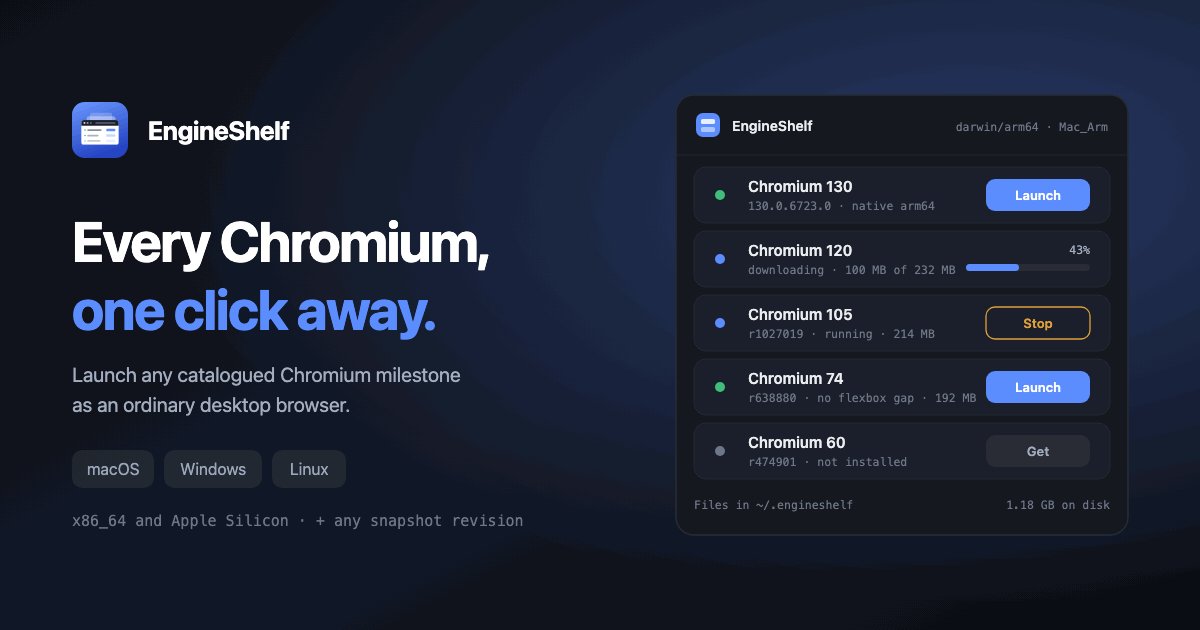
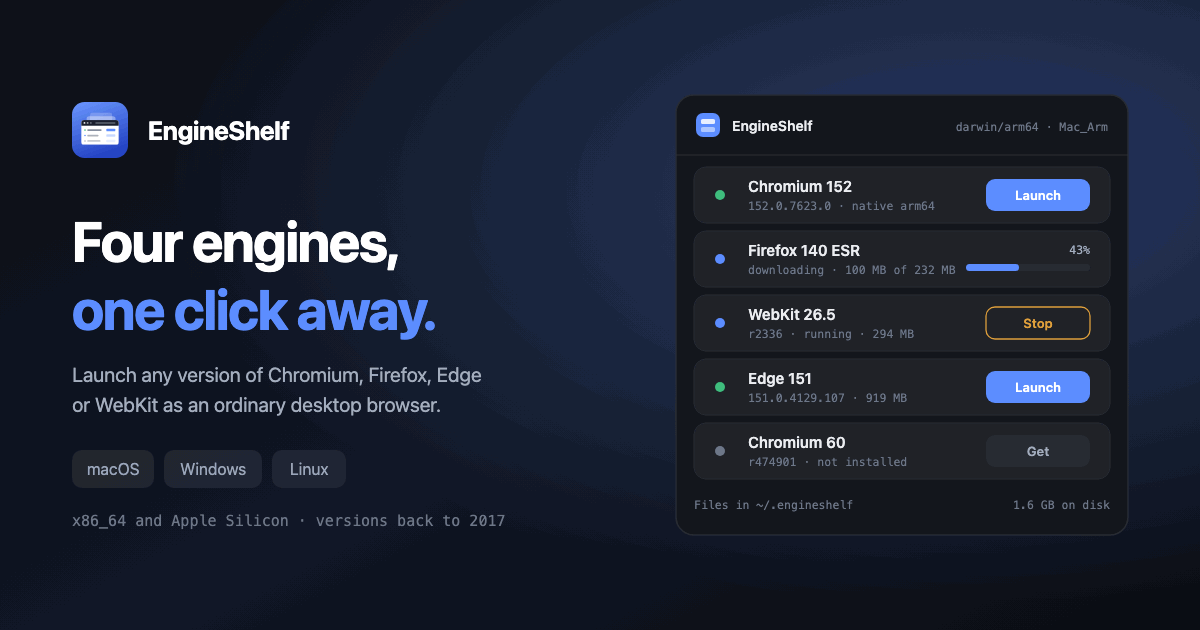
fix: update gui

diff --git a/docs/index.html b/docs/index.html
@@ -3,10 +3,10 @@
   <head>
     <meta charset="utf-8" />
     <meta name="viewport" content="width=device-width, initial-scale=1" />
-    <title>EngineShelf — run old Chromium versions, 60 and up</title>
+    <title>EngineShelf — run old versions of Chromium, Firefox, Edge and WebKit</title>
     <meta
       name="description"
-      content="Launch any Chromium milestone from 60 onwards as a real desktop browser — DevTools, tabs, profiles. Free and self-contained for macOS, Windows and Linux."
+      content="Launch any version of Chromium, Firefox, Edge or WebKit as a real desktop browser — DevTools, tabs, profiles. Free and self-contained for macOS, Windows and Linux."
     />
     <meta
       name="robots"
@@ -36,11 +36,11 @@
     <meta property="og:locale" content="en_US" />
     <meta
       property="og:title"
-      content="EngineShelf — run old Chromium versions, 60 and up"
+      content="EngineShelf — run old versions of Chromium, Firefox, Edge and WebKit"
     />
     <meta
       property="og:description"
-      content="Launch any Chromium milestone from 60 onwards as a real desktop browser — DevTools, tabs, profiles. Free and self-contained for macOS, Windows and Linux."
+      content="Launch any version of Chromium, Firefox, Edge or WebKit as a real desktop browser — DevTools, tabs, profiles. Free and self-contained for macOS, Windows and Linux."
     />
     <meta property="og:url" content="https://1m93.github.io/EngineShelf/" />
     <meta
@@ -52,17 +52,17 @@
     <meta property="og:image:height" content="630" />
     <meta
       property="og:image:alt"
-      content="EngineShelf — a shelf of real browsers, every Chromium, one click away. Chromium 60 and up, on macOS, Windows and Linux."
+      content="EngineShelf — a shelf of real browsers: four engines, every version, one click away. On macOS, Windows and Linux."
     />
 
     <meta name="twitter:card" content="summary_large_image" />
     <meta
       name="twitter:title"
-      content="EngineShelf — run old Chromium versions, 60 and up"
+      content="EngineShelf — run old versions of Chromium, Firefox, Edge and WebKit"
     />
     <meta
       name="twitter:description"
-      content="Launch any Chromium milestone from 60 onwards as a real desktop browser — DevTools, tabs, profiles. Free and self-contained for macOS, Windows and Linux."
+      content="Launch any version of Chromium, Firefox, Edge or WebKit as a real desktop browser — DevTools, tabs, profiles. Free and self-contained for macOS, Windows and Linux."
     />
     <meta
       name="twitter:image"
@@ -70,7 +70,7 @@
     />
     <meta
       name="twitter:image:alt"
-      content="EngineShelf — Chromium 60 and up on macOS, Windows and Linux."
+      content="EngineShelf — Chromium, Firefox, Edge and WebKit on macOS, Windows and Linux."
     />
 
     <meta
@@ -1062,7 +1062,7 @@
             "@id": "https://1m93.github.io/EngineShelf/#app",
             "name": "EngineShelf",
             "url": "https://1m93.github.io/EngineShelf/",
-            "description": "A version manager for Chromium. Downloads and launches any catalogued Chromium milestone from 60 (2017) onwards as an ordinary desktop browser, with tabs, bookmarks, DevTools and a persistent profile per version — for testing sites against old engines, legacy System WebViews and browserslist floors.",
+            "description": "A version manager for browser engines. Downloads and launches old versions of Chromium, Firefox, Edge and WebKit as ordinary desktop browsers, with tabs, bookmarks, DevTools and a persistent profile per version — for testing sites against old engines, legacy System WebViews and browserslist floors.",
             "applicationCategory": "DeveloperApplication",
             "applicationSubCategory": "Cross-browser testing",
             "operatingSystem": "macOS 10.13+, Windows 10, Windows 11, Linux x86_64",
@@ -1103,7 +1103,7 @@
             "@id": "https://1m93.github.io/EngineShelf/#website",
             "url": "https://1m93.github.io/EngineShelf/",
             "name": "EngineShelf",
-            "description": "Launch any Chromium milestone from 60 onwards as a real desktop browser — DevTools, tabs, profiles. Free and self-contained for macOS, Windows and Linux.",
+            "description": "Launch any version of Chromium, Firefox, Edge or WebKit as a real desktop browser — DevTools, tabs, profiles. Free and self-contained for macOS, Windows and Linux.",
             "inLanguage": "en",
             "publisher": {
               "@type": "Person",
@@ -1118,8 +1118,8 @@
             "@type": "WebPage",
             "@id": "https://1m93.github.io/EngineShelf/#webpage",
             "url": "https://1m93.github.io/EngineShelf/",
-            "name": "EngineShelf — run old Chromium versions, 60 and up",
-            "description": "Launch any Chromium milestone from 60 onwards as a real desktop browser — DevTools, tabs, profiles. Free and self-contained for macOS, Windows and Linux.",
+            "name": "EngineShelf — run old versions of Chromium, Firefox, Edge and WebKit",
+            "description": "Launch any version of Chromium, Firefox, Edge or WebKit as a real desktop browser — DevTools, tabs, profiles. Free and self-contained for macOS, Windows and Linux.",
             "isPartOf": {
               "@id": "https://1m93.github.io/EngineShelf/#website"
             },
@@ -1650,7 +1650,7 @@
               "
             >
               A shelf of real browsers,<br /><span style="color: var(--accent)"
-                >Every Chromium, one click away.</span
+                >Four engines,<br />one click away.</span
               >
             </h1>
             <p
@@ -1664,9 +1664,9 @@
                 text-wrap: pretty;
               "
             >
-              Pick a Chromium version, press Launch, and it opens as an ordinary
-              desktop browser — tabs, bookmarks, DevTools and all. No account,
-              no build step, nothing to configure.
+              Pick a version of Chromium, Firefox, Edge or WebKit, press Launch,
+              and it opens as an ordinary desktop browser — tabs, bookmarks,
+              DevTools and all. No account, no build step, nothing to configure.
             </p>
             <div
               data-reveal

diff --git a/gui/app.js b/gui/app.js
@@ -892,10 +892,53 @@ function renderViewSwitch() {
   // renderChrome decides whether the era list is worth showing at all, so this
   // only ever hides it - forcing it visible again would override that.
   if (matrix) $('eras-group').hidden = true;
+  $('engines-group').hidden = !matrix;
+  if (matrix) renderEngineSummary();
   const sortLabel = document.querySelector('.sort-label');
   if (sortLabel) sortLabel.hidden = matrix;
   const search = document.querySelector('.search');
   if (search) search.hidden = matrix;
+}
+
+// What each engine actually holds on this machine, counted off the matrix rather
+// than the list - the list is Chromium only, which is why its counts cannot be
+// reused here.
+function renderEngineSummary() {
+  const host = $('engine-list');
+  host.textContent = '';
+  const rows = state.matrix || [];
+  for (const engine of state.engines || []) {
+    let total = 0;
+    let installed = 0;
+    let bytes = 0;
+    for (const row of rows) {
+      const cell = row.cells[engine.id];
+      if (!cell) continue;
+      const all = [cell, ...(cell.others || [])];
+      total += all.length;
+      for (const entry of all) {
+        if (!entry.installed) continue;
+        installed += 1;
+        bytes += entry.sizeBytes;
+      }
+    }
+    if (!total) continue;
+
+    const line = document.createElement('div');
+    line.className = 'engline';
+    line.append(spanWith('engname', engine.name));
+    const right = spanWith('engcount', '');
+    if (installed) {
+      right.append(spanWith('mdot', ''));
+      right.append(document.createTextNode(mb(bytes)));
+      line.title = `${installed} of ${total} ${engine.name} versions on disk`;
+    } else {
+      right.textContent = `${total}`;
+      line.title = `${total} ${engine.name} versions on the shelf, none downloaded`;
+    }
+    line.append(right);
+    host.append(line);
+  }
 }
 
 function setView(mode) {

diff --git a/gui/index.html b/gui/index.html
@@ -128,6 +128,14 @@
             <div id="eras"></div>
           </div>
 
+          <!-- The matrix has no filters and no eras, and hiding both left the
+               sidebar as an empty column. This is what belongs there instead:
+               how much of each engine is on this machine. -->
+          <div class="side-group" id="engines-group" hidden>
+            <div class="side-title">Engines</div>
+            <div id="engine-list"></div>
+          </div>
+
           <div class="spacer"></div>
 
           <div class="disk-card">

diff --git a/gui/styles.css b/gui/styles.css
@@ -1456,3 +1456,27 @@ table.matrix thead th {
   font-size: 11px;
   color: var(--c-faint);
 }
+
+/* Per-engine summary, sidebar, matrix view only. */
+.engline {
+  display: flex;
+  align-items: center;
+  justify-content: space-between;
+  gap: 8px;
+  padding: 6px 10px;
+  border-radius: 7px;
+  font-size: 13px;
+}
+.engline:hover {
+  background: var(--c-surface);
+}
+.engname {
+  color: var(--c-text);
+}
+.engcount {
+  display: flex;
+  align-items: center;
+  gap: 5px;
+  font: 500 11px/1 var(--mono);
+  color: var(--c-faint);
+}
